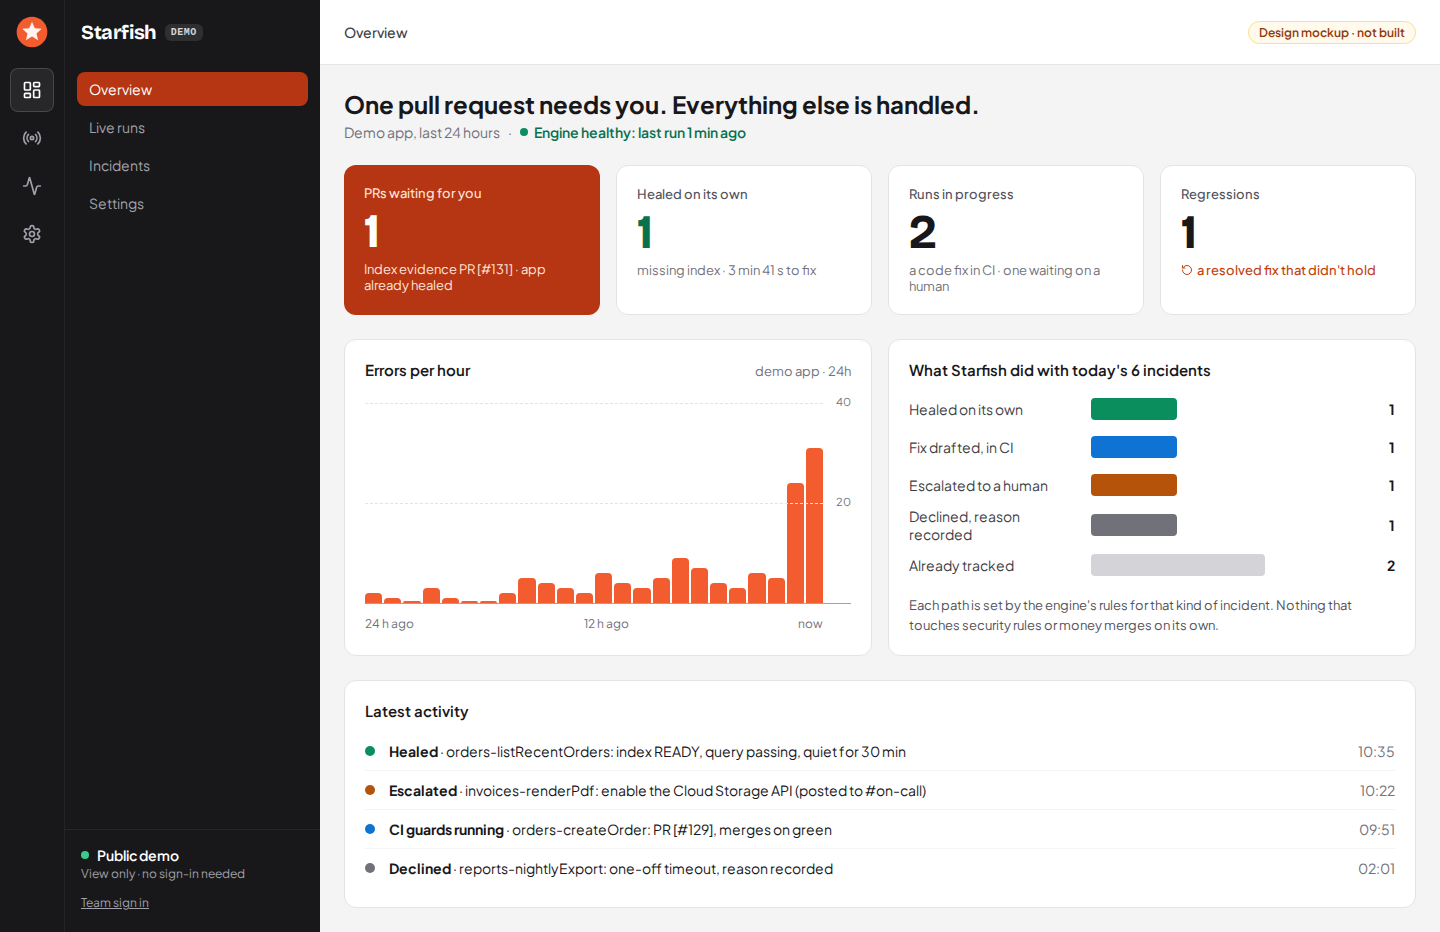
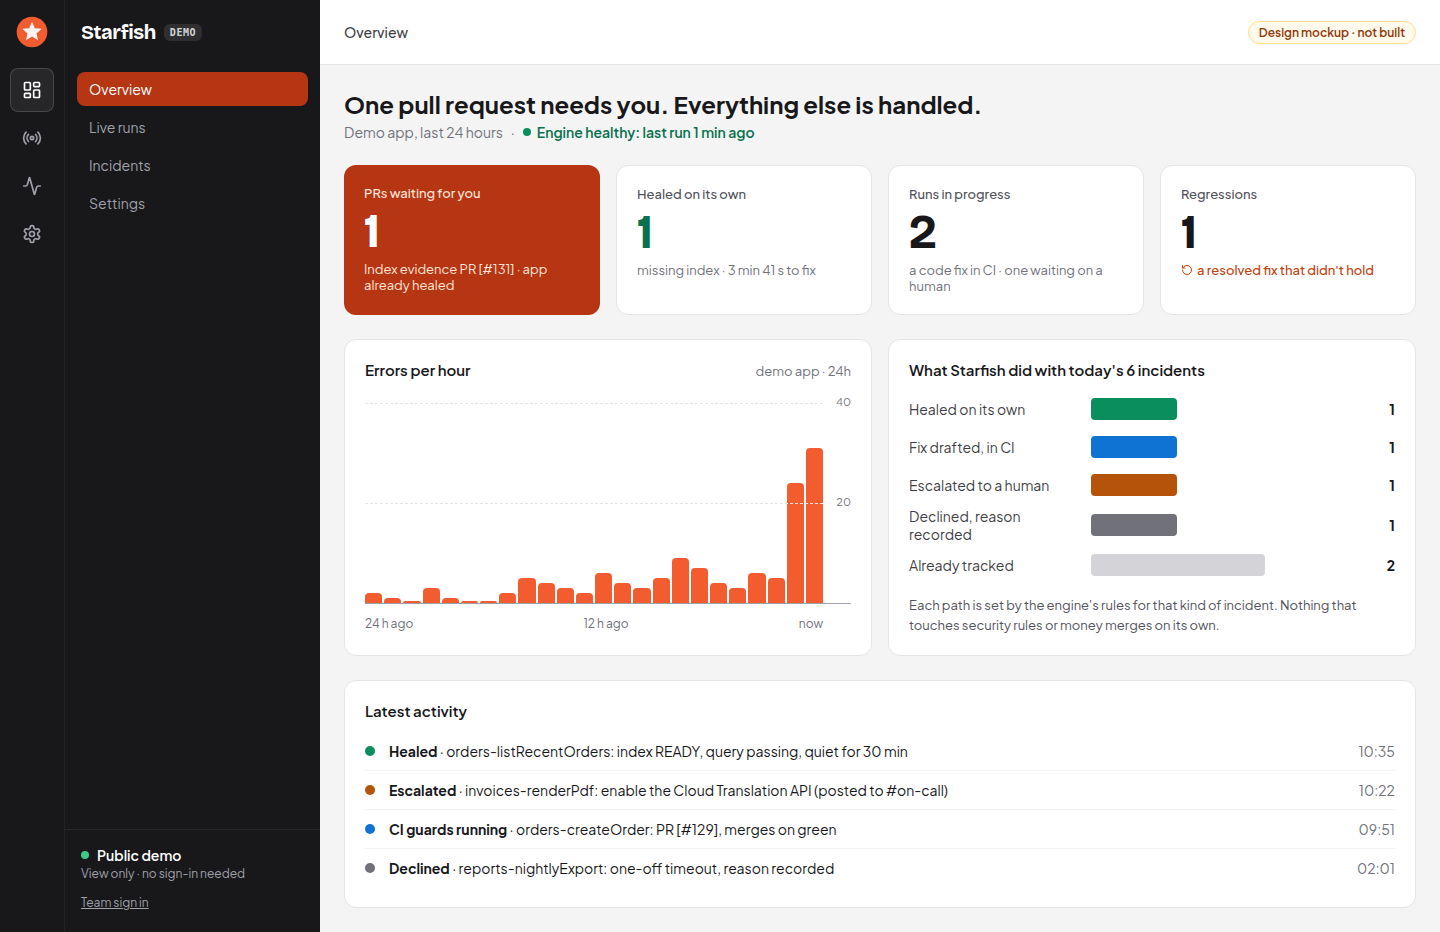
docs(design): re-render the five stale mockup screenshots
Overview, the notify run, Incidents, Slack messages and the Engine rules
were taken before #100 changed the notify API to Cloud Translation and
added dependencies and CI config to the never-auto-merged list. They are
re-rendered at 1x from the current HTML pages, with the web fonts loaded,
so they match the pages again. The mockups note that called them stale is
updated.

The rest of #67 (the Starfish Screens canvas and the storyboard line) is
outside this repo and moves to the runbook, #163.

Closes #67

Claude-Session: https://claude.ai/code/session_01SR3erdGsj87XzgsBT6CRE5

diff --git a/docs/design/mockups.md b/docs/design/mockups.md
@@ -44,7 +44,7 @@ The shop with each feature's broken and working states, then the Scenario lab.
 
 ![The Scenario lab](screens/scenario-lab.png)
 
-> The notify case now disables the Cloud Translation API, not Cloud Storage (disabling Cloud Storage would break deploys; it is the recommended choice in [#68](https://github.com/Hack2Skill-Demo/starfish/issues/68), not yet decided), and the Engine screen lists dependencies and CI config among the never-auto-merged classes. The screenshots of the Overview, the notify run, the incidents table, the Slack messages and the Engine rules below were taken before those edits; the HTML pages are current.
+> The notify case now disables the Cloud Translation API, not Cloud Storage (disabling Cloud Storage would break deploys; it is the recommended choice in [#68](https://github.com/Hack2Skill-Demo/starfish/issues/68), not yet decided), and the Engine screen lists dependencies and CI config among the never-auto-merged classes. The screenshots below were re-rendered from the HTML pages after those edits (2026-10-06).
 
 ### Live runs, one per MVP case
 
